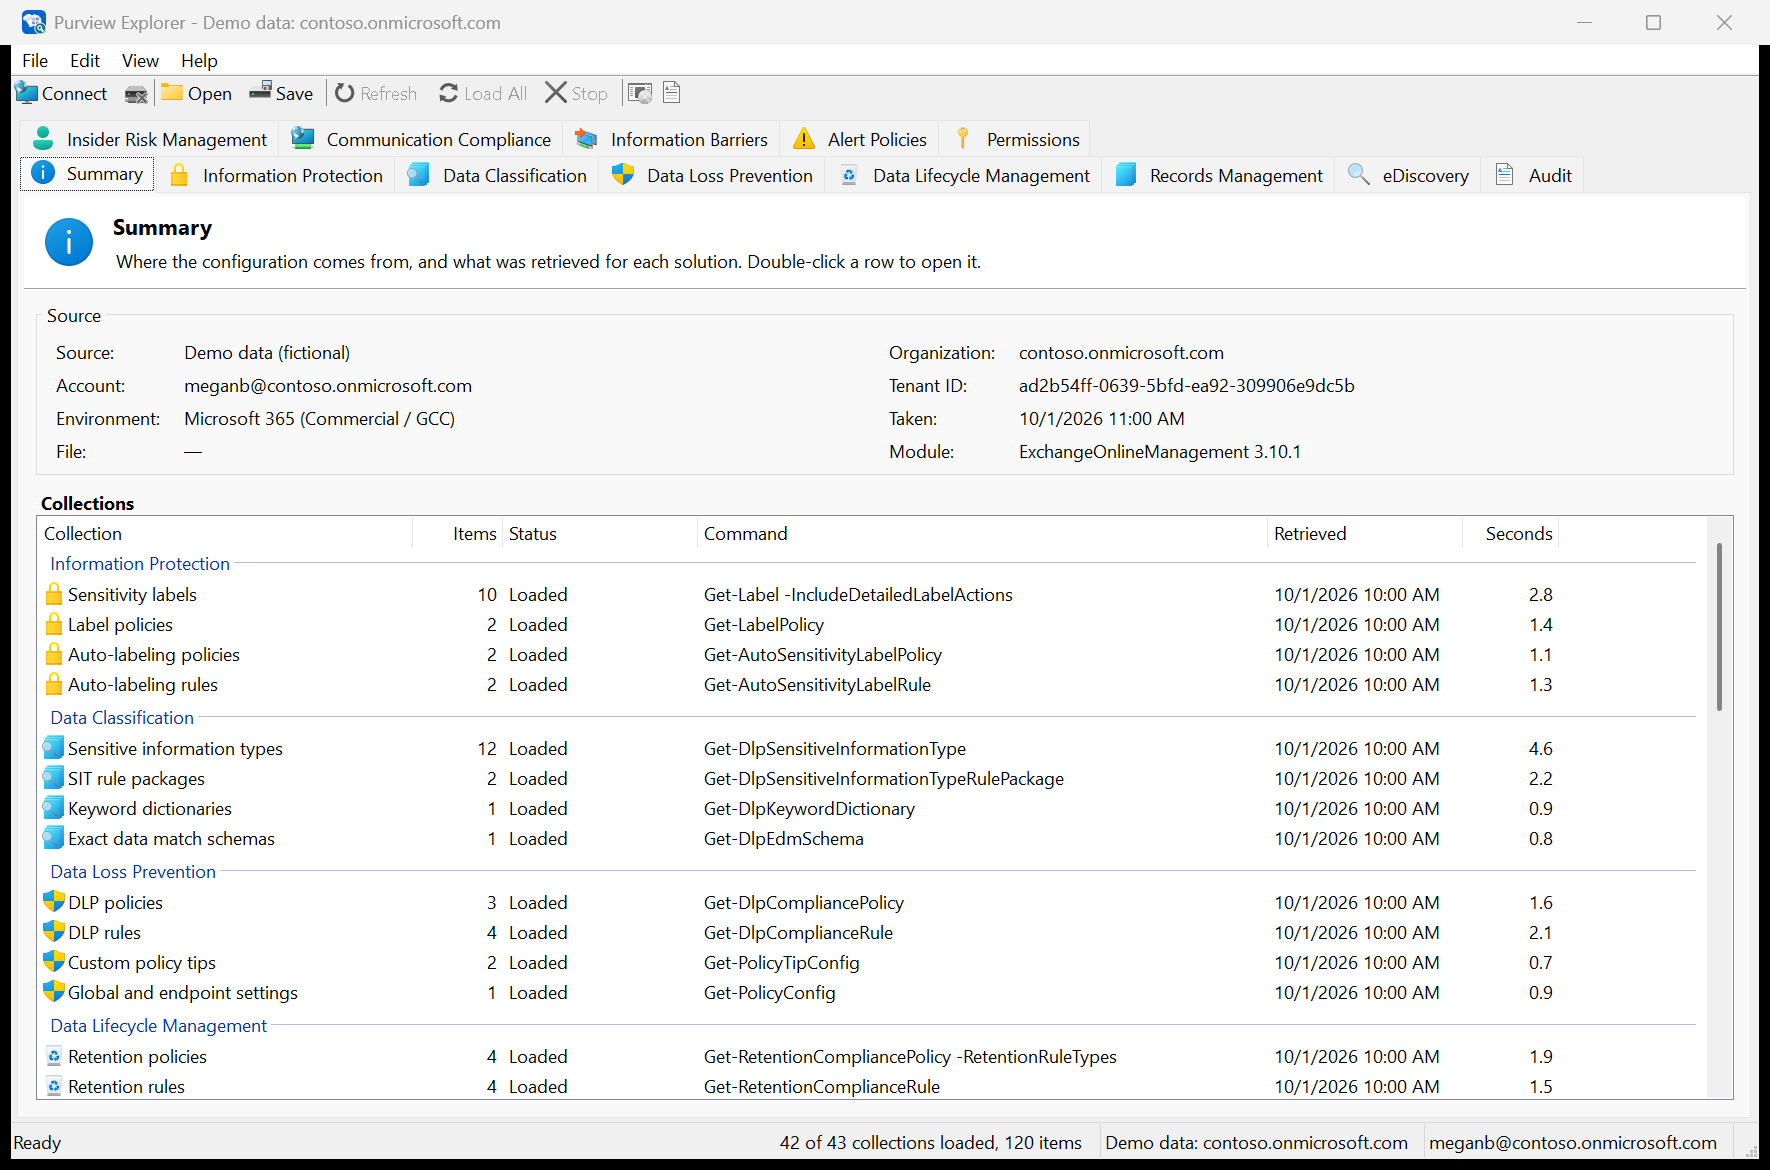
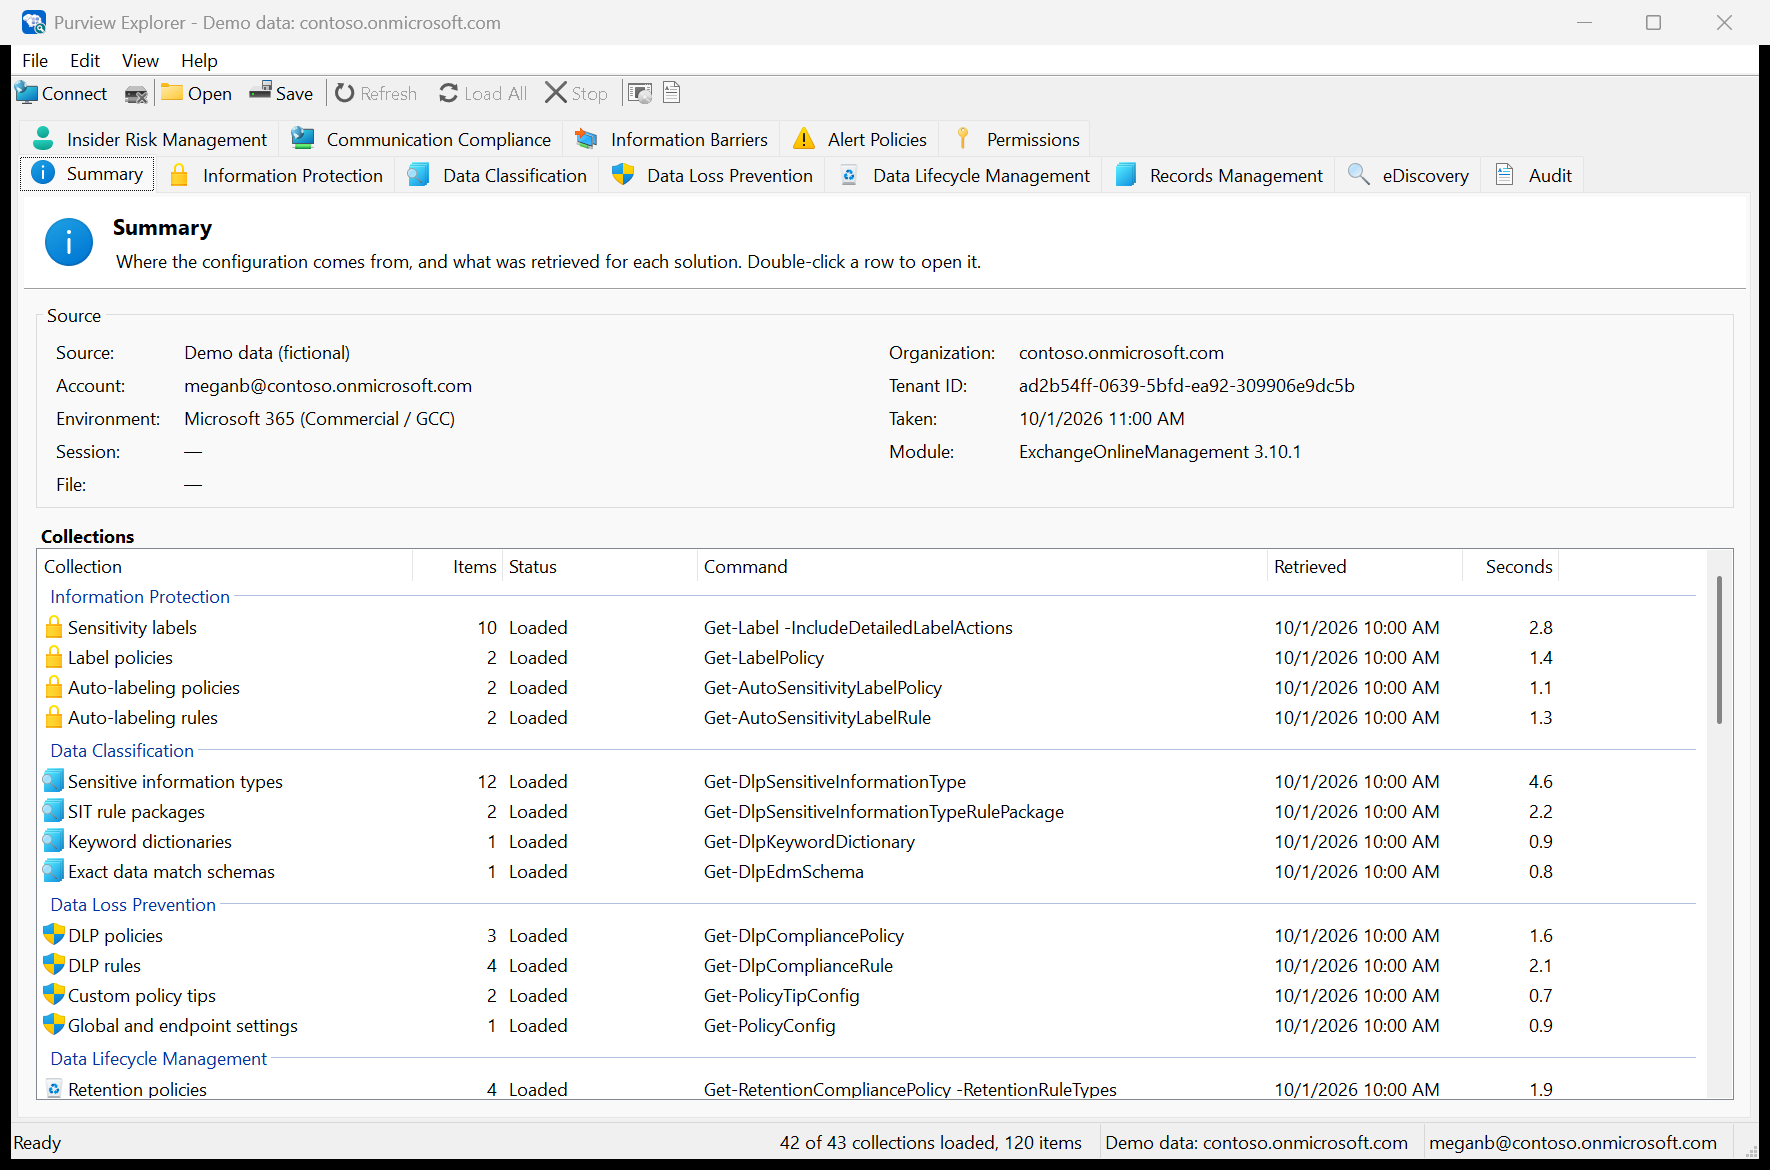
Purview Explorer 0.5.1: Source box on the Summary tab fits wrapped values
The Source table measured every value on one line, so when a long value such
as the snapshot file path wrapped, the group box stayed too short and the rows
below it (the new Session row) were cut off. Values now get the width of their
column as maximum width, so the table measures the wrapped text and the box
grows to fit. The file path moves to the last row and spans the whole width.

diff --git a/src/PurviewExplorer/UI/SummaryView.cs b/src/PurviewExplorer/UI/SummaryView.cs
@@ -40,7 +40,7 @@ namespace SardaCloud.PurviewExplorer.UI
             table.ColumnStyles.Add(new ColumnStyle(SizeType.Percent, 50));
             table.ColumnStyles.Add(new ColumnStyle(SizeType.AutoSize));
             table.ColumnStyles.Add(new ColumnStyle(SizeType.Percent, 50));
-            var fields = new[] { "Source", "Organization", "Account", "Tenant ID", "Environment", "Taken", "File", "Module", "Session" };
+            var fields = new[] { "Source", "Organization", "Account", "Tenant ID", "Environment", "Taken", "Session", "Module", "File" };
             for (int i = 0; i < fields.Length; i++)
             {
                 var label = new Label { Text = fields[i] + ":", AutoSize = true, Margin = new Padding(0, Ui.S(3), Ui.S(8), Ui.S(3)) };
@@ -49,6 +49,9 @@ namespace SardaCloud.PurviewExplorer.UI
                 table.Controls.Add(label, (i % 2) * 2, i / 2);
                 table.Controls.Add(value, (i % 2) * 2 + 1, i / 2);
             }
+            // The file path is the longest value: it gets the rest of the last row.
+            table.SetColumnSpan(_values["File"], 3);
+            table.SizeChanged += (s, e) => FitValues(table);
             sourceGroup.Controls.Add(table);
 
             _list = new ListViewEx { Dock = DockStyle.Fill, MultiSelect = false, ShowGroups = true };
@@ -145,6 +148,28 @@ namespace SardaCloud.PurviewExplorer.UI
         }
 
         private void Set(string field, string value) => _values[field].Text = string.IsNullOrEmpty(value) ? "\u2014" : value;
+
+        /// <summary>
+        /// Limits each value to the width of its column(s). Without a maximum width the table measures every value on
+        /// one line, so the group box gets too short when a long value (such as the file path) wraps, and the rows
+        /// below it are cut off.
+        /// </summary>
+        private void FitValues(TableLayoutPanel table)
+        {
+            int LabelColumn(int column) => table.Controls.Cast<Control>()
+                .Where(c => table.GetColumn(c) == column && !_values.ContainsValue(c as Label))
+                .Select(c => c.PreferredSize.Width + c.Margin.Horizontal)
+                .DefaultIfEmpty(0).Max();
+
+            int labels0 = LabelColumn(0), labels2 = LabelColumn(2);
+            int half = Math.Max(0, table.ClientSize.Width - table.Padding.Horizontal - labels0 - labels2) / 2;
+            foreach (var value in _values.Values)
+            {
+                int width = table.GetColumnSpan(value) >= 3 ? half + labels2 + half : half;
+                var max = new Size(Math.Max(Ui.S(60), width - value.Margin.Horizontal), 0);
+                if (value.MaximumSize != max) value.MaximumSize = max;
+            }
+        }
 
         private void UpdateRow(string key)
         {

diff --git a/CHANGELOG.md b/CHANGELOG.md
@@ -7,6 +7,14 @@ All notable changes to Purview Explorer (called Purview Configuration Viewer in 
 The format follows [Keep a Changelog](https://keepachangelog.com/en/1.1.0/), and the project uses
 [Semantic Versioning](https://semver.org/spec/v2.0.0.html).
 
+## [0.5.1] - 2026-10-14
+
+### Fixed
+
+- Summary tab: when a value wrapped onto more lines (typically a long snapshot file path), the Source box didn't
+  grow, and the rows below it, such as the new *Session* row, were cut off. The box now fits the wrapped text, and
+  the file path is on the last row, where it has the whole width.
+
 ## [0.5.0] - 2026-10-14
 
 ### Added
@@ -128,6 +136,7 @@ application, read-only.
 - `/SelfTest`, which drives the whole UI with the demo data, and xUnit tests including hosted-runspace
   integration tests.
 
+[0.5.1]: https://github.com/SardaCloud/PurviewExplorer/releases/tag/v0.5.1
 [0.5.0]: https://github.com/SardaCloud/PurviewExplorer/releases/tag/v0.5.0
 [0.4.0]: https://github.com/SardaCloud/PurviewExplorer/releases/tag/v0.4.0
 [0.3.0]: https://github.com/SardaCloud/PurviewExplorer/releases/tag/v0.3.0
